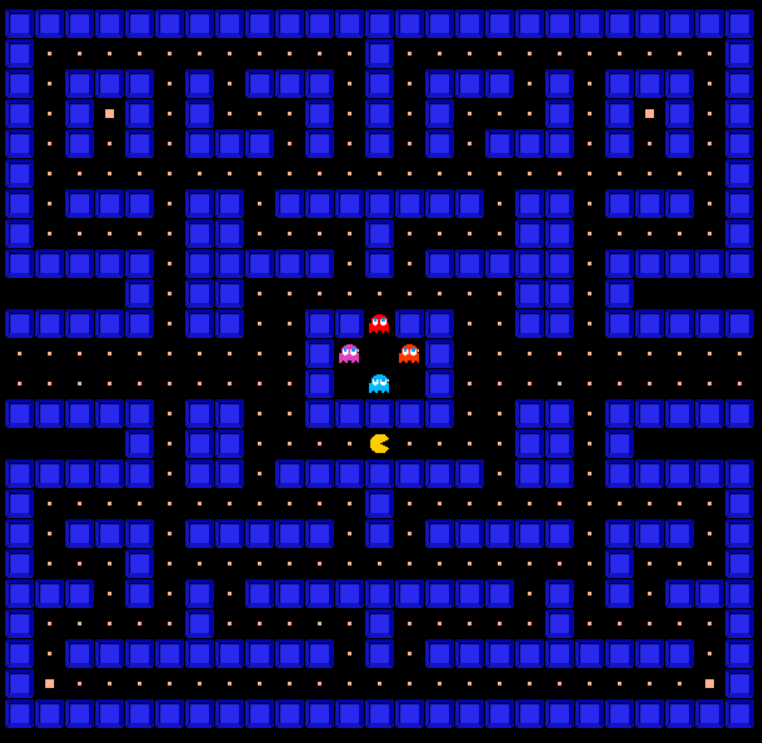
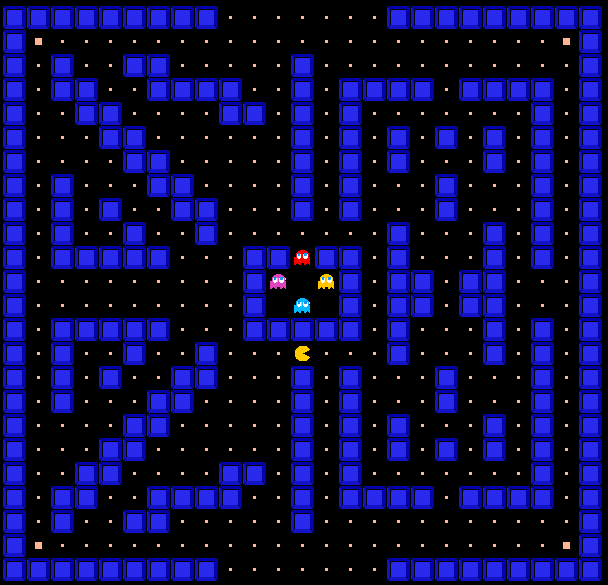
Add new maps, sort by dificulty

diff --git a/src/level.py b/src/level.py
@@ -8,6 +8,34 @@ class Level:
     def __init__(self):
         self.lvl = 0
         self.maps = [
+            # clean map:
+            [
+                [1,1,1,1,1,1,1,1,1,1,1,1,1,1,1,1,1,1,1,1,1,1,1,1,1,0],
+                [1,0,0,0,0,0,0,0,0,0,0,0,0,0,0,0,0,0,0,0,0,0,0,0,1,0],
+                [1,0,0,0,0,0,0,0,0,0,0,0,0,0,0,0,0,0,0,0,0,0,0,0,1,0],
+                [1,0,0,0,0,0,0,0,0,0,0,0,0,0,0,0,0,0,0,0,0,0,0,0,1,0],
+                [1,0,0,0,0,0,0,0,0,0,0,0,0,0,0,0,0,0,0,0,0,0,0,0,1,0],
+                [1,0,0,0,0,0,0,0,0,0,0,0,0,0,0,0,0,0,0,0,0,0,0,0,1,0],
+                [1,0,0,0,0,0,0,0,0,0,0,0,0,0,0,0,0,0,0,0,0,0,0,0,1,0],
+                [1,0,0,0,0,0,0,0,0,0,0,0,0,0,0,0,0,0,0,0,0,0,0,0,1,0],
+                [1,0,0,0,0,0,0,0,0,0,0,0,0,0,0,0,0,0,0,0,0,0,0,0,1,0],
+                [1,0,0,0,0,0,0,0,0,0,0,0,0,0,0,0,0,0,0,0,0,0,0,0,1,0],
+                [1,0,0,0,0,0,0,0,0,0,1,1,2,1,1,0,0,0,0,0,0,0,0,0,1,0],
+                [1,0,0,0,0,0,0,0,0,0,1,2,2,2,1,0,0,0,0,0,0,0,0,0,1,0],
+                [1,0,0,0,0,0,0,0,0,0,1,2,2,2,1,0,0,0,0,0,0,0,0,0,1,0],
+                [1,0,0,0,0,0,0,0,0,0,1,1,1,1,1,0,0,0,0,0,0,0,0,0,1,0],
+                [1,0,0,0,0,0,0,0,0,0,0,0,0,0,0,0,0,0,0,0,0,0,0,0,1,0],
+                [1,0,0,0,0,0,0,0,0,0,0,0,0,0,0,0,0,0,0,0,0,0,0,0,1,0],
+                [1,0,0,0,0,0,0,0,0,0,0,0,0,0,0,0,0,0,0,0,0,0,0,0,1,0],
+                [1,0,0,0,0,0,0,0,0,0,0,0,0,0,0,0,0,0,0,0,0,0,0,0,1,0],
+                [1,0,0,0,0,0,0,0,0,0,0,0,0,0,0,0,0,0,0,0,0,0,0,0,1,0],
+                [1,0,0,0,0,0,0,0,0,0,0,0,0,0,0,0,0,0,0,0,0,0,0,0,1,0],
+                [1,0,0,0,0,0,0,0,0,0,0,0,0,0,0,0,0,0,0,0,0,0,0,0,1,0],
+                [1,0,0,0,0,0,0,0,0,0,0,0,0,0,0,0,0,0,0,0,0,0,0,0,1,0],
+                [1,0,0,0,0,0,0,0,0,0,0,0,0,0,0,0,0,0,0,0,0,0,0,0,1,0],
+                [1,1,1,1,1,1,1,1,1,1,1,1,1,1,1,1,1,1,1,1,1,1,1,1,1,0],
+                [0,0,0,0,0,0,0,0,0,0,0,0,0,0,0,0,0,0,0,0,0,0,0,0,0,0],
+            ],
             [
                 [1,1,1,1,1,1,1,1,1,1,1,1,1,1,1,1,1,1,1,1,1,1,1,1,1,0],
                 [1,0,0,0,0,0,0,0,0,0,0,0,0,0,0,0,0,0,0,0,0,0,0,0,1,0],
@@ -34,89 +62,114 @@ class Level:
                 [1,0,0,0,0,0,0,0,0,0,0,0,0,0,0,0,0,0,0,0,0,0,0,0,1,0],
                 [1,1,1,1,1,1,1,1,1,1,1,1,1,1,1,1,1,1,1,1,1,1,1,1,1,0],
                 [0,0,0,0,0,0,0,0,0,0,0,0,0,0,0,0,0,0,0,0,0,0,0,0,0,0]
-
-
             ],
             [
-                [1,0,1,1,1,1,1,1,1,1,1,2,2,2,1,1,1,1,1,1,1,1,1,0,1,0],
-                [1,0,0,0,0,0,1,3,0,0,1,2,2,2,1,0,0,3,1,0,0,0,0,0,1,0],
-                [1,0,1,1,1,0,0,0,1,0,1,2,2,2,1,0,1,0,0,0,1,1,1,0,1,0],
-                [1,0,0,0,1,0,1,1,1,0,1,2,2,2,1,0,1,1,1,0,1,0,0,0,1,0],
-                [1,0,1,0,1,0,0,0,1,0,1,1,2,1,1,0,1,0,0,0,1,0,1,0,1,0],
-                [1,0,1,0,1,1,1,0,1,0,0,1,1,1,0,0,1,0,1,1,1,0,1,0,1,0],
-                [1,1,1,0,0,0,1,0,1,0,1,1,1,1,1,0,1,0,1,0,0,0,1,1,1,0],
-                [1,0,0,0,1,0,1,0,0,0,1,0,1,0,1,0,0,0,1,0,1,0,0,0,1,0],
-                [1,0,1,1,1,0,1,1,1,0,0,0,1,0,0,0,1,1,1,0,1,1,1,0,1,0],
-                [1,0,1,0,0,0,0,0,1,0,1,0,0,0,1,0,1,0,0,0,0,0,1,0,1,0],
-                [1,0,1,0,1,1,1,0,1,0,1,1,2,1,1,0,1,0,1,1,1,0,1,0,1,0],
-                [1,0,1,0,1,0,1,0,1,0,1,2,2,2,1,0,1,0,1,0,1,0,1,0,1,0],
-                [1,0,0,0,1,0,1,0,0,0,1,2,2,2,1,0,0,0,1,0,1,0,0,0,1,0],
-                [1,1,0,1,1,0,1,0,1,0,1,1,1,1,1,0,1,0,1,0,1,1,0,1,1,0],
-                [1,0,0,0,0,0,1,0,1,0,0,0,0,0,0,0,1,0,1,0,0,0,0,0,1,0],
-                [1,0,1,1,1,0,1,1,1,0,1,1,0,1,1,0,1,1,1,0,1,1,1,0,1,0],
-                [1,0,1,3,1,0,0,0,0,0,0,1,0,1,0,0,0,0,0,0,1,3,1,0,1,0],
-                [1,0,1,0,1,0,1,1,1,1,0,1,0,1,0,1,1,1,1,0,1,0,1,0,1,0],
-                [1,0,1,0,1,0,1,0,0,0,0,1,0,1,0,0,0,0,1,0,1,0,1,0,1,0],
-                [1,0,0,0,0,0,1,1,0,1,1,1,0,1,1,1,0,1,1,0,0,0,0,0,1,0],
-                [1,0,1,1,1,0,0,1,0,0,0,0,0,0,0,0,0,1,0,0,1,1,1,0,1,0],
-                [1,0,1,0,1,1,1,1,0,1,1,1,1,1,1,1,0,1,1,1,1,0,1,0,1,0],
+                [1,1,1,1,1,1,1,1,1,0,0,0,0,0,0,0,1,1,1,1,1,1,1,1,1,0],
+                [1,3,0,0,0,0,0,0,0,0,0,0,0,0,0,0,0,0,0,0,0,0,0,3,1,0],
+                [1,0,1,0,0,1,1,0,0,0,0,0,1,0,0,0,0,0,0,0,0,0,0,0,1,0],
+                [1,0,1,1,0,0,1,1,1,1,0,0,1,0,1,1,1,1,0,1,1,1,1,0,1,0],
+                [1,0,0,1,1,0,0,0,0,1,1,0,1,0,1,0,0,0,0,0,0,0,1,0,1,0],
+                [1,0,0,0,1,1,0,0,0,0,0,0,1,0,1,0,1,0,1,0,1,0,1,0,1,0],
+                [1,0,0,0,0,1,1,0,0,0,0,0,1,0,1,0,1,0,0,0,1,0,1,0,1,0],
+                [1,0,1,0,0,0,1,1,0,0,0,0,1,0,1,0,0,0,1,0,0,0,1,0,1,0],
+                [1,0,1,0,1,0,0,1,1,0,0,0,1,0,1,0,0,0,1,0,0,0,1,0,1,0],
+                [1,0,1,0,0,1,0,0,1,0,0,0,0,0,0,0,1,0,0,0,1,0,1,0,1,0],
+                [1,0,1,1,1,1,1,0,0,0,1,1,2,1,1,0,1,0,0,0,1,0,1,0,1,0],
+                [1,0,0,0,0,0,0,0,0,0,1,2,2,2,1,0,1,1,0,1,1,0,0,0,1,0],
+                [1,0,0,0,0,0,0,0,0,0,1,2,2,2,1,0,1,1,0,1,1,0,0,0,1,0],
+                [1,0,1,1,1,1,1,0,0,0,1,1,1,1,1,0,1,0,0,0,1,0,1,0,1,0],
+                [1,0,1,0,0,1,0,0,1,0,0,0,0,0,0,0,1,0,0,0,1,0,1,0,1,0],
+                [1,0,1,0,1,0,0,1,1,0,0,0,1,0,1,0,0,0,1,0,0,0,1,0,1,0],
+                [1,0,1,0,0,0,1,1,0,0,0,0,1,0,1,0,0,0,1,0,0,0,1,0,1,0],
+                [1,0,0,0,0,1,1,0,0,0,0,0,1,0,1,0,1,0,0,0,1,0,1,0,1,0],
+                [1,0,0,0,1,1,0,0,0,0,0,0,1,0,1,0,1,0,1,0,1,0,1,0,1,0],
+                [1,0,0,1,1,0,0,0,0,1,1,0,1,0,1,0,0,0,0,0,0,0,1,0,1,0],
+                [1,0,1,1,0,0,1,1,1,1,0,0,1,0,1,1,1,1,0,1,1,1,1,0,1,0],
+                [1,0,1,0,0,1,1,0,0,0,0,0,1,0,0,0,0,0,0,0,0,0,0,0,1,0],
+                [1,3,0,0,0,0,0,0,0,0,0,0,0,0,0,0,0,0,0,0,0,0,0,3,1,0],
+                [1,1,1,1,1,1,1,1,1,0,0,0,0,0,0,0,1,1,1,1,1,1,1,1,1,0],
+                [0,0,0,0,0,0,0,0,0,0,0,0,0,0,0,0,0,0,0,0,0,0,0,0,0,0]
+            ],
+            [
+                [1,1,1,1,1,1,1,1,1,1,1,1,1,1,1,1,1,1,1,1,1,1,1,1,1,0],
+                [1,0,0,0,0,0,0,0,0,0,0,0,0,0,0,0,0,0,0,0,0,0,0,0,1,0],
+                [1,0,1,1,1,1,1,1,0,1,1,1,0,1,1,1,0,1,1,1,1,1,1,0,1,0],
                 [1,0,1,0,0,0,0,0,0,0,0,0,0,0,0,0,0,0,0,0,0,0,1,0,1,0],
-                [1,0,1,1,1,1,1,1,1,1,1,1,1,1,1,1,1,1,1,1,1,1,1,0,1,0],
+                [1,0,0,0,1,1,1,1,1,1,0,1,1,1,0,1,1,1,1,1,1,0,0,0,1,0],
+                [1,0,1,0,1,0,0,0,0,0,0,0,0,0,0,0,0,0,0,0,1,0,1,0,1,0],
+                [1,0,1,0,1,0,1,1,1,1,1,1,0,1,1,1,1,1,1,0,1,0,1,0,1,0],
+                [1,0,1,0,0,0,1,0,0,0,0,0,0,0,0,0,0,0,1,0,0,0,1,0,1,0],
+                [1,0,1,0,1,0,1,0,1,1,1,1,1,1,1,1,1,0,1,0,1,0,1,0,1,0],
+                [1,0,1,0,1,0,1,0,1,0,0,0,0,0,0,0,1,0,1,0,1,0,1,0,1,0],
+                [1,0,1,0,1,0,1,0,0,0,1,1,2,1,1,0,0,0,1,0,1,0,1,0,1,0],
+                [1,0,1,0,1,0,0,0,1,0,1,2,2,2,1,0,1,0,0,0,1,0,1,0,1,0],
+                [1,0,1,0,1,0,0,0,1,0,1,2,2,2,1,0,1,0,0,0,1,0,1,0,1,0],
+                [1,0,1,0,1,0,1,0,0,0,1,1,1,1,1,0,0,0,1,0,1,0,1,0,1,0],
+                [1,0,1,0,1,0,1,0,1,0,0,0,0,0,0,0,1,0,1,0,1,0,1,0,1,0],
+                [1,0,1,0,1,0,1,0,1,1,1,1,0,1,1,1,1,0,1,0,1,0,1,0,1,0],
+                [1,0,1,0,0,0,1,0,0,0,0,0,0,0,0,0,0,0,1,0,0,0,1,0,1,0],
+                [1,0,1,0,1,0,1,1,1,1,1,1,1,1,1,1,1,1,1,0,1,0,1,0,1,0],
+                [1,0,1,0,1,0,0,0,0,0,0,0,0,0,0,0,0,0,0,0,1,0,1,0,1,0],
+                [1,0,0,0,1,0,1,1,1,1,1,1,0,1,1,1,1,1,1,0,1,0,0,0,1,0],
+                [1,0,1,0,0,0,0,0,0,0,0,0,0,0,0,0,0,0,0,0,0,0,1,0,1,0],
+                [1,0,1,1,1,1,0,1,1,1,1,1,1,1,1,1,1,1,0,1,1,1,1,0,1,0],
+                [1,0,0,0,0,0,0,0,0,0,0,0,0,0,0,0,0,0,0,0,0,0,0,0,1,0],
+                [1,1,1,1,1,1,1,1,1,1,1,1,1,1,1,1,1,1,1,1,1,1,1,1,1,0],
                 [0,0,0,0,0,0,0,0,0,0,0,0,0,0,0,0,0,0,0,0,0,0,0,0,0,0],
             ],
-
-            # clean map:
-            # [1,1,1,1,1,1,1,1,1,1,1,1,1,1,1,1,1,1,1,1,1,1,1,1,1,0],
-            # [1,0,0,0,0,0,0,0,0,0,0,0,0,0,0,0,0,0,0,0,0,0,0,0,1,0],
-            # [1,0,0,0,0,0,0,0,0,0,0,0,0,0,0,0,0,0,0,0,0,0,0,0,1,0],
-            # [1,0,0,0,0,0,0,0,0,0,0,0,0,0,0,0,0,0,0,0,0,0,0,0,1,0],
-            # [1,0,0,0,0,0,0,0,0,0,0,0,0,0,0,0,0,0,0,0,0,0,0,0,1,0],
-            # [1,0,0,0,0,0,0,0,0,0,0,0,0,0,0,0,0,0,0,0,0,0,0,0,1,0],
-            # [1,0,0,0,0,0,0,0,0,0,0,0,0,0,0,0,0,0,0,0,0,0,0,0,1,0],
-            # [1,0,0,0,0,0,0,0,0,0,0,0,0,0,0,0,0,0,0,0,0,0,0,0,1,0],
-            # [1,0,0,0,0,0,0,0,0,0,0,0,0,0,0,0,0,0,0,0,0,0,0,0,1,0],
-            # [1,0,0,0,0,0,0,0,0,0,0,0,0,0,0,0,0,0,0,0,0,0,0,0,1,0],
-            # [1,0,0,0,0,0,0,0,0,0,1,1,2,1,1,0,0,0,0,0,0,0,0,0,1,0],
-            # [1,0,0,0,0,0,0,0,0,0,1,2,2,2,1,0,0,0,0,0,0,0,0,0,1,0],
-            # [1,0,0,0,0,0,0,0,0,0,1,2,2,2,1,0,0,0,0,0,0,0,0,0,1,0],
-            # [1,0,0,0,0,0,0,0,0,0,1,1,1,1,1,0,0,0,0,0,0,0,0,0,1,0],
-            # [1,0,0,0,0,0,0,0,0,0,0,0,0,0,0,0,0,0,0,0,0,0,0,0,1,0],
-            # [1,0,0,0,0,0,0,0,0,0,0,0,0,0,0,0,0,0,0,0,0,0,0,0,1,0],
-            # [1,0,0,0,0,0,0,0,0,0,0,0,0,0,0,0,0,0,0,0,0,0,0,0,1,0],
-            # [1,0,0,0,0,0,0,0,0,0,0,0,0,0,0,0,0,0,0,0,0,0,0,0,1,0],
-            # [1,0,0,0,0,0,0,0,0,0,0,0,0,0,0,0,0,0,0,0,0,0,0,0,1,0],
-            # [1,0,0,0,0,0,0,0,0,0,0,0,0,0,0,0,0,0,0,0,0,0,0,0,1,0],
-            # [1,0,0,0,0,0,0,0,0,0,0,0,0,0,0,0,0,0,0,0,0,0,0,0,1,0],
-            # [1,0,0,0,0,0,0,0,0,0,0,0,0,0,0,0,0,0,0,0,0,0,0,0,1,0],
-            # [1,0,0,0,0,0,0,0,0,0,0,0,0,0,0,0,0,0,0,0,0,0,0,0,1,0],
-            # [1,1,1,1,1,1,1,1,1,1,1,1,1,1,1,1,1,1,1,1,1,1,1,1,1,0],
-            # [0,0,0,0,0,0,0,0,0,0,0,0,0,0,0,0,0,0,0,0,0,0,0,0,0,0],
             [
-                [1,1,1,1,1,1,1,1,1,1,1,1,1,1,1,1,1,1,1,1,1,1,1,1,1,0],
-                [1,0,0,0,0,0,0,0,0,0,0,0,1,0,0,0,0,0,0,0,0,0,0,0,1,0],
-                [1,0,1,1,1,0,1,0,1,1,1,0,1,0,1,1,1,0,1,0,1,1,1,0,1,0],
-                [1,0,1,3,1,0,1,0,0,0,1,0,1,0,1,0,0,0,1,0,1,3,1,0,1,0],
-                [1,0,1,0,1,0,1,1,1,0,1,0,1,0,1,0,1,1,1,0,1,0,1,0,1,0],
+                [1,1,1,1,1,1,1,1,1,1,1,1,0,1,1,1,1,1,1,1,1,1,1,1,1,0],
+                [1,0,0,0,0,0,0,0,0,0,0,1,0,1,0,0,0,0,0,0,0,0,0,0,1,0],
+                [1,0,1,0,1,0,1,0,1,1,0,1,0,1,0,1,1,0,1,0,1,0,1,0,1,0],
+                [1,0,0,0,1,0,1,0,0,0,0,1,0,1,0,0,0,0,1,0,1,0,0,0,1,0],
+                [1,1,1,1,1,0,1,1,1,1,1,1,0,1,1,1,1,1,1,0,1,1,1,1,1,0],
+                [0,0,0,0,0,0,0,0,0,0,0,0,0,0,0,0,0,0,0,0,0,0,0,0,0,0],
+                [1,1,1,1,1,0,1,1,1,1,1,1,0,1,1,1,1,1,1,0,1,1,1,1,1,0],
+                [1,0,0,0,1,0,1,0,0,0,0,1,0,1,0,0,0,0,1,0,1,0,0,0,1,0],
+                [1,0,1,0,1,0,1,0,1,1,0,1,0,1,0,1,1,0,1,0,1,0,1,0,1,0],
+                [1,0,0,0,1,0,1,0,0,0,0,0,0,0,0,0,0,0,1,0,1,0,0,0,1,0],
+                [1,0,1,0,1,0,1,0,1,0,1,1,2,1,1,0,1,0,1,0,1,0,1,0,1,0],
+                [1,0,1,0,0,0,0,0,1,0,1,2,2,2,1,0,1,0,0,0,0,0,1,0,1,0],
+                [1,0,1,0,0,0,0,0,1,0,1,2,2,2,1,0,1,0,0,0,0,0,1,0,1,0],
+                [1,0,1,0,1,0,1,0,1,0,1,1,1,1,1,0,1,0,1,0,1,0,1,0,1,0],
+                [1,0,0,0,1,0,1,0,0,0,0,0,0,0,0,0,0,0,1,0,1,0,0,0,1,0],
+                [1,0,1,0,1,0,1,0,1,1,0,1,0,1,0,1,1,0,1,0,1,0,1,0,1,0],
+                [1,0,0,0,1,0,1,0,0,0,0,1,0,1,0,0,0,0,1,0,1,0,0,0,1,0],
+                [1,1,1,1,1,0,1,1,1,1,1,1,0,1,1,1,1,1,1,0,1,1,1,1,1,0],
+                [0,0,0,0,0,0,0,0,0,0,0,0,0,0,0,0,0,0,0,0,0,0,0,0,0,0],
+                [1,1,1,1,1,0,1,1,1,1,1,1,0,1,1,1,1,1,1,0,1,1,1,1,1,0],
+                [1,0,0,0,1,0,1,0,0,0,0,1,0,1,0,0,0,0,1,0,1,0,0,0,1,0],
+                [1,0,1,0,1,0,1,0,1,1,0,1,0,1,0,1,1,0,1,0,1,0,1,0,1,0],
+                [1,0,0,0,0,0,0,0,0,0,0,1,0,1,0,0,0,0,0,0,0,0,0,0,1,0],
+                [1,1,1,1,1,1,1,1,1,1,1,1,0,1,1,1,1,1,1,1,1,1,1,1,1,0],
+                [0,0,0,0,0,0,0,0,0,0,0,0,0,0,0,0,0,0,0,0,0,0,0,0,0,0],
+            ],
+            [
+                [1,1,1,1,1,1,1,1,1,1,1,1,0,1,1,1,1,1,1,1,1,1,1,1,1,0],
                 [1,0,0,0,0,0,0,0,0,0,0,0,0,0,0,0,0,0,0,0,0,0,0,0,1,0],
-                [1,0,1,1,1,0,1,1,0,1,1,1,1,1,1,1,0,1,1,0,1,1,1,0,1,0],
-                [1,0,0,0,0,0,1,1,0,0,0,0,1,0,0,0,0,1,1,0,0,0,0,0,1,0],
-                [1,1,1,1,1,0,1,1,1,1,1,0,1,0,1,1,1,1,1,0,1,1,1,1,1,0],
-                [2,2,2,2,1,0,1,1,0,0,0,0,0,0,0,0,0,1,1,0,1,2,2,2,2,0],
-                [1,1,1,1,1,0,1,1,0,0,1,1,2,1,1,0,0,1,1,0,1,1,1,1,1,0],
-                [0,0,0,0,0,0,0,0,0,0,1,2,2,2,1,0,0,0,0,0,0,0,0,0,0,0],
-                [0,0,0,0,0,0,0,0,0,0,1,2,2,2,1,0,0,0,0,0,0,0,0,0,0,0],
-                [1,1,1,1,1,0,1,1,0,0,1,1,1,1,1,0,0,1,1,0,1,1,1,1,1,0],
-                [2,2,2,2,1,0,1,1,0,0,0,0,0,0,0,0,0,1,1,0,1,2,2,2,2,0],
-                [1,1,1,1,1,0,1,1,0,1,1,1,1,1,1,1,0,1,1,0,1,1,1,1,1,0],
-                [1,0,0,0,0,0,0,0,0,0,0,0,1,0,0,0,0,0,0,0,0,0,0,0,1,0],
-                [1,0,1,1,1,0,1,1,1,1,1,0,1,0,1,1,1,1,1,0,1,1,1,0,1,0],
-                [1,0,0,0,1,0,0,0,0,0,0,0,0,0,0,0,0,0,0,0,1,0,0,0,1,0],
-                [1,1,1,0,1,0,1,0,1,1,1,1,1,1,1,1,1,0,1,0,1,0,1,1,1,0],
-                [1,0,0,0,0,0,1,0,0,0,0,0,1,0,0,0,0,0,1,0,0,0,0,0,1,0],
-                [1,0,1,1,1,1,1,1,1,1,1,0,1,0,1,1,1,1,1,1,1,1,1,0,1,0],
-                [1,3,0,0,0,0,0,0,0,0,0,0,0,0,0,0,0,0,0,0,0,0,0,3,1,0],
-                [1,1,1,1,1,1,1,1,1,1,1,1,1,1,1,1,1,1,1,1,1,1,1,1,1,0],
-                [0,0,0,0,0,0,0,0,0,0,0,0,0,0,0,0,0,0,0,0,0,0,0,0,0,0]
+                [1,0,1,1,1,1,1,1,1,1,1,1,0,1,1,1,1,1,1,1,1,1,1,0,1,0],
+                [1,0,1,0,0,0,0,0,0,0,0,0,0,0,0,0,0,0,0,0,0,0,1,0,1,0],
+                [1,0,1,0,1,1,1,1,1,1,1,1,0,1,1,1,1,1,1,1,1,0,1,0,1,0],
+                [1,0,1,0,1,0,0,0,0,0,0,0,0,0,0,0,0,0,0,0,0,0,1,0,1,0],
+                [1,0,1,0,1,1,1,1,1,1,1,1,0,1,1,1,1,1,1,1,1,1,1,0,1,0],
+                [1,0,1,0,0,0,0,0,0,0,0,0,0,0,0,0,0,0,0,0,0,0,0,0,1,0],
+                [1,0,1,1,1,1,1,1,1,1,1,1,0,1,1,1,1,1,1,1,1,1,1,1,1,0],
+                [1,0,1,0,0,0,0,0,1,0,0,0,0,0,0,0,1,0,0,0,0,0,1,0,1,0],
+                [1,0,1,0,1,1,1,0,1,0,1,1,2,1,1,0,1,0,1,1,1,0,1,0,1,0],
+                [1,0,1,0,1,0,1,0,1,0,1,2,2,2,1,0,1,0,1,0,1,0,1,0,1,0],
+                [1,0,1,0,1,0,1,0,1,0,1,2,2,2,1,0,1,0,1,0,1,0,1,0,1,0],
+                [1,0,1,0,1,0,1,0,1,0,1,1,1,1,1,0,1,0,1,0,1,0,1,0,1,0],
+                [1,0,1,0,1,0,1,0,1,0,0,0,0,0,0,0,1,0,1,0,1,0,1,0,1,0],
+                [0,0,0,0,0,0,0,0,0,0,0,1,0,1,0,0,0,0,0,0,0,0,0,0,0,0],
+                [1,0,1,0,1,0,1,0,1,0,1,1,0,1,1,0,1,0,0,0,0,0,1,0,1,0],
+                [1,0,1,0,1,0,1,0,1,0,1,0,0,0,1,0,1,0,1,0,1,0,1,0,1,0],
+                [1,0,1,0,1,0,1,0,1,0,1,0,1,0,1,0,1,0,1,0,1,0,1,0,1,0],
+                [1,0,1,0,1,0,1,0,1,0,1,0,1,0,1,0,1,0,1,0,1,0,1,0,1,0],
+                [1,0,1,0,0,0,1,0,1,0,1,0,0,0,1,0,1,0,1,0,0,0,1,0,1,0],
+                [1,0,1,1,1,1,1,0,1,0,1,1,0,1,1,0,1,0,1,1,1,1,1,0,1,0],
+                [1,0,0,0,0,0,0,0,1,0,0,0,0,0,0,0,1,0,0,0,0,0,0,0,1,0],
+                [1,1,1,1,1,1,1,1,1,1,1,1,0,1,1,1,1,1,1,1,1,1,1,1,1,0],
+                [0,0,0,0,0,0,0,0,0,0,0,0,0,0,0,0,0,0,0,0,0,0,0,0,0,0],
             ],
             [
                 [1,1,1,1,1,1,1,1,1,1,1,1,0,0,1,1,1,1,1,1,1,1,1,1,1,0],
@@ -145,63 +198,88 @@ class Level:
                 [1,1,1,1,1,1,1,1,1,1,1,1,0,0,1,1,1,1,1,1,1,1,1,1,1,0],
                 [0,0,0,0,0,0,0,0,0,0,0,0,0,0,0,0,0,0,0,0,0,0,0,0,0,0]
             ],
-
             [
                 [1,1,1,1,1,1,1,1,1,1,1,1,1,1,1,1,1,1,1,1,1,1,1,1,1,0],
-                [1,1,1,1,1,1,1,1,1,1,1,1,1,1,1,1,1,1,1,1,1,1,1,1,1,0],
-                [1,1,1,1,1,1,1,1,1,1,1,1,1,1,1,1,1,1,1,1,1,1,1,1,1,0],
-                [1,1,1,1,1,1,1,1,1,1,1,1,1,1,1,1,1,1,1,1,1,1,1,1,1,0],
-                [1,1,1,1,1,1,1,1,1,1,1,1,1,1,1,1,1,1,1,1,1,1,1,1,1,0],
-                [1,1,1,1,1,1,1,1,1,1,1,1,1,1,1,1,1,1,1,1,1,1,1,1,1,0],
-                [1,1,1,1,1,1,1,1,1,1,1,1,1,1,1,1,1,1,1,1,1,1,1,1,1,0],
-                [1,1,1,1,1,1,1,1,1,1,1,1,1,1,1,1,1,1,1,1,1,1,1,1,1,0],
-                [1,1,1,1,1,1,1,1,1,1,1,1,1,1,1,1,1,1,1,1,1,1,1,1,1,0],
-                [1,1,1,1,1,1,1,1,1,1,1,1,1,1,1,1,1,1,1,1,1,1,1,1,1,0],
-                [1,1,1,1,1,1,1,0,0,0,1,1,2,1,1,0,0,0,1,1,1,1,1,1,1,0],
-                [1,1,1,1,1,1,1,0,0,0,1,2,2,2,1,0,0,0,1,1,1,1,1,1,1,0],
-                [1,1,1,1,1,1,1,0,0,0,1,2,2,2,1,0,0,0,1,1,1,1,1,1,1,0],
-                [1,1,1,1,1,1,1,0,0,0,1,1,1,1,1,0,0,0,1,1,1,1,1,1,1,0],
-                [1,1,1,1,1,1,1,0,0,0,0,0,0,0,0,0,0,0,1,1,1,1,1,1,1,0],
-                [1,1,1,1,1,1,1,1,1,1,1,1,1,1,1,1,1,1,1,1,1,1,1,1,1,0],
-                [1,1,1,1,1,1,1,1,1,1,1,1,1,1,1,1,1,1,1,1,1,1,1,1,1,0],
-                [1,1,1,1,1,1,1,1,1,1,1,1,1,1,1,1,1,1,1,1,1,1,1,1,1,0],
-                [1,1,1,1,1,1,1,1,1,1,1,1,1,1,1,1,1,1,1,1,1,1,1,1,1,0],
-                [1,1,1,1,1,1,1,1,1,1,1,1,1,1,1,1,1,1,1,1,1,1,1,1,1,0],
-                [1,1,1,1,1,1,1,1,1,1,1,1,1,1,1,1,1,1,1,1,1,1,1,1,1,0],
-                [1,1,1,1,1,1,1,1,1,1,1,1,1,1,1,1,1,1,1,1,1,1,1,1,1,0],
-                [1,1,1,1,1,1,1,1,1,1,1,1,1,1,1,1,1,1,1,1,1,1,1,1,1,0],
-                [1,1,1,1,1,1,1,1,1,1,1,1,1,1,1,1,1,1,1,1,1,1,1,1,1,0],
-                [0,0,0,0,0,0,0,0,0,0,0,0,0,0,0,0,0,0,0,0,0,0,0,0,0,0],
-            ],
-
-            [
-                [1,1,1,1,1,1,1,1,1,0,0,0,0,0,0,0,1,1,1,1,1,1,1,1,1,0],
+                [1,0,0,0,0,0,0,0,0,0,0,0,1,0,0,0,0,0,0,0,0,0,0,0,1,0],
+                [1,0,1,1,1,0,1,0,1,1,1,0,1,0,1,1,1,0,1,0,1,1,1,0,1,0],
+                [1,0,1,3,1,0,1,0,0,0,1,0,1,0,1,0,0,0,1,0,1,3,1,0,1,0],
+                [1,0,1,0,1,0,1,1,1,0,1,0,1,0,1,0,1,1,1,0,1,0,1,0,1,0],
+                [1,0,0,0,0,0,0,0,0,0,0,0,0,0,0,0,0,0,0,0,0,0,0,0,1,0],
+                [1,0,1,1,1,0,1,1,0,1,1,1,1,1,1,1,0,1,1,0,1,1,1,0,1,0],
+                [1,0,0,0,0,0,1,1,0,0,0,0,1,0,0,0,0,1,1,0,0,0,0,0,1,0],
+                [1,1,1,1,1,0,1,1,1,1,1,0,1,0,1,1,1,1,1,0,1,1,1,1,1,0],
+                [2,2,2,2,1,0,1,1,0,0,0,0,0,0,0,0,0,1,1,0,1,2,2,2,2,0],
+                [1,1,1,1,1,0,1,1,0,0,1,1,2,1,1,0,0,1,1,0,1,1,1,1,1,0],
+                [0,0,0,0,0,0,0,0,0,0,1,2,2,2,1,0,0,0,0,0,0,0,0,0,0,0],
+                [0,0,0,0,0,0,0,0,0,0,1,2,2,2,1,0,0,0,0,0,0,0,0,0,0,0],
+                [1,1,1,1,1,0,1,1,0,0,1,1,1,1,1,0,0,1,1,0,1,1,1,1,1,0],
+                [2,2,2,2,1,0,1,1,0,0,0,0,0,0,0,0,0,1,1,0,1,2,2,2,2,0],
+                [1,1,1,1,1,0,1,1,0,1,1,1,1,1,1,1,0,1,1,0,1,1,1,1,1,0],
+                [1,0,0,0,0,0,0,0,0,0,0,0,1,0,0,0,0,0,0,0,0,0,0,0,1,0],
+                [1,0,1,1,1,0,1,1,1,1,1,0,1,0,1,1,1,1,1,0,1,1,1,0,1,0],
+                [1,0,0,0,1,0,0,0,0,0,0,0,0,0,0,0,0,0,0,0,1,0,0,0,1,0],
+                [1,1,1,0,1,0,1,0,1,1,1,1,1,1,1,1,1,0,1,0,1,0,1,1,1,0],
+                [1,0,0,0,0,0,1,0,0,0,0,0,1,0,0,0,0,0,1,0,0,0,0,0,1,0],
+                [1,0,1,1,1,1,1,1,1,1,1,0,1,0,1,1,1,1,1,1,1,1,1,0,1,0],
                 [1,3,0,0,0,0,0,0,0,0,0,0,0,0,0,0,0,0,0,0,0,0,0,3,1,0],
-                [1,0,1,0,0,1,1,0,0,0,0,0,1,0,0,0,0,0,0,0,0,0,0,0,1,0],
-                [1,0,1,1,0,0,1,1,1,1,0,0,1,0,1,1,1,1,0,1,1,1,1,0,1,0],
-                [1,0,0,1,1,0,0,0,0,1,1,0,1,0,1,0,0,0,0,0,0,0,1,0,1,0],
-                [1,0,0,0,1,1,0,0,0,0,0,0,1,0,1,0,1,0,1,0,1,0,1,0,1,0],
-                [1,0,0,0,0,1,1,0,0,0,0,0,1,0,1,0,1,0,0,0,1,0,1,0,1,0],
-                [1,0,1,0,0,0,1,1,0,0,0,0,1,0,1,0,0,0,1,0,0,0,1,0,1,0],
-                [1,0,1,0,1,0,0,1,1,0,0,0,1,0,1,0,0,0,1,0,0,0,1,0,1,0],
-                [1,0,1,0,0,1,0,0,1,0,0,0,0,0,0,0,1,0,0,0,1,0,1,0,1,0],
-                [1,0,1,1,1,1,1,0,0,0,1,1,2,1,1,0,1,0,0,0,1,0,1,0,1,0],
-                [1,0,0,0,0,0,0,0,0,0,1,2,2,2,1,0,1,1,0,1,1,0,0,0,1,0],
-                [1,0,0,0,0,0,0,0,0,0,1,2,2,2,1,0,1,1,0,1,1,0,0,0,1,0],
-                [1,0,1,1,1,1,1,0,0,0,1,1,1,1,1,0,1,0,0,0,1,0,1,0,1,0],
-                [1,0,1,0,0,1,0,0,1,0,0,0,0,0,0,0,1,0,0,0,1,0,1,0,1,0],
-                [1,0,1,0,1,0,0,1,1,0,0,0,1,0,1,0,0,0,1,0,0,0,1,0,1,0],
-                [1,0,1,0,0,0,1,1,0,0,0,0,1,0,1,0,0,0,1,0,0,0,1,0,1,0],
-                [1,0,0,0,0,1,1,0,0,0,0,0,1,0,1,0,1,0,0,0,1,0,1,0,1,0],
-                [1,0,0,0,1,1,0,0,0,0,0,0,1,0,1,0,1,0,1,0,1,0,1,0,1,0],
-                [1,0,0,1,1,0,0,0,0,1,1,0,1,0,1,0,0,0,0,0,0,0,1,0,1,0],
-                [1,0,1,1,0,0,1,1,1,1,0,0,1,0,1,1,1,1,0,1,1,1,1,0,1,0],
-                [1,0,1,0,0,1,1,0,0,0,0,0,1,0,0,0,0,0,0,0,0,0,0,0,1,0],
-                [1,3,0,0,0,0,0,0,0,0,0,0,0,0,0,0,0,0,0,0,0,0,0,3,1,0],
-                [1,1,1,1,1,1,1,1,1,0,0,0,0,0,0,0,1,1,1,1,1,1,1,1,1,0],
+                [1,1,1,1,1,1,1,1,1,1,1,1,1,1,1,1,1,1,1,1,1,1,1,1,1,0],
                 [0,0,0,0,0,0,0,0,0,0,0,0,0,0,0,0,0,0,0,0,0,0,0,0,0,0]
             ],
+            [
+                [1,0,1,1,1,1,1,1,1,1,1,2,2,2,1,1,1,1,1,1,1,1,1,0,1,0],
+                [1,0,0,0,0,0,1,3,0,0,1,2,2,2,1,0,0,3,1,0,0,0,0,0,1,0],
+                [1,0,1,1,1,0,0,0,1,0,1,2,2,2,1,0,1,0,0,0,1,1,1,0,1,0],
+                [1,0,0,0,1,0,1,1,1,0,1,2,2,2,1,0,1,1,1,0,1,0,0,0,1,0],
+                [1,0,1,0,1,0,0,0,1,0,1,1,2,1,1,0,1,0,0,0,1,0,1,0,1,0],
+                [1,0,1,0,1,1,1,0,1,0,0,1,1,1,0,0,1,0,1,1,1,0,1,0,1,0],
+                [1,1,1,0,0,0,1,0,1,0,1,1,1,1,1,0,1,0,1,0,0,0,1,1,1,0],
+                [1,0,0,0,1,0,1,0,0,0,1,0,1,0,1,0,0,0,1,0,1,0,0,0,1,0],
+                [1,0,1,1,1,0,1,1,1,0,0,0,1,0,0,0,1,1,1,0,1,1,1,0,1,0],
+                [1,0,1,0,0,0,0,0,1,0,1,0,0,0,1,0,1,0,0,0,0,0,1,0,1,0],
+                [1,0,1,0,1,1,1,0,1,0,1,1,2,1,1,0,1,0,1,1,1,0,1,0,1,0],
+                [1,0,1,0,1,0,1,0,1,0,1,2,2,2,1,0,1,0,1,0,1,0,1,0,1,0],
+                [1,0,0,0,1,0,1,0,0,0,1,2,2,2,1,0,0,0,1,0,1,0,0,0,1,0],
+                [1,1,0,1,1,0,1,0,1,0,1,1,1,1,1,0,1,0,1,0,1,1,0,1,1,0],
+                [1,0,0,0,0,0,1,0,1,0,0,0,0,0,0,0,1,0,1,0,0,0,0,0,1,0],
+                [1,0,1,1,1,0,1,1,1,0,1,1,0,1,1,0,1,1,1,0,1,1,1,0,1,0],
+                [1,0,1,3,1,0,0,0,0,0,0,1,0,1,0,0,0,0,0,0,1,3,1,0,1,0],
+                [1,0,1,0,1,0,1,1,1,1,0,1,0,1,0,1,1,1,1,0,1,0,1,0,1,0],
+                [1,0,1,0,1,0,1,0,0,0,0,1,0,1,0,0,0,0,1,0,1,0,1,0,1,0],
+                [1,0,0,0,0,0,1,1,0,1,1,1,0,1,1,1,0,1,1,0,0,0,0,0,1,0],
+                [1,0,1,1,1,0,0,1,0,0,0,0,0,0,0,0,0,1,0,0,1,1,1,0,1,0],
+                [1,0,1,0,1,1,1,1,0,1,1,1,1,1,1,1,0,1,1,1,1,0,1,0,1,0],
+                [1,0,1,0,0,0,0,0,0,0,0,0,0,0,0,0,0,0,0,0,0,0,1,0,1,0],
+                [1,0,1,1,1,1,1,1,1,1,1,1,1,1,1,1,1,1,1,1,1,1,1,0,1,0],
+                [0,0,0,0,0,0,0,0,0,0,0,0,0,0,0,0,0,0,0,0,0,0,0,0,0,0],
+            ],
             
+            # [
+            #     [1,1,1,1,1,1,1,1,1,1,1,1,1,1,1,1,1,1,1,1,1,1,1,1,1,0],
+            #     [1,1,1,1,1,1,1,1,1,1,1,1,1,1,1,1,1,1,1,1,1,1,1,1,1,0],
+            #     [1,1,1,1,1,1,1,1,1,1,1,1,1,1,1,1,1,1,1,1,1,1,1,1,1,0],
+            #     [1,1,1,1,1,1,1,1,1,1,1,1,1,1,1,1,1,1,1,1,1,1,1,1,1,0],
+            #     [1,1,1,1,1,1,1,1,1,1,1,1,1,1,1,1,1,1,1,1,1,1,1,1,1,0],
+            #     [1,1,1,1,1,1,1,1,1,1,1,1,1,1,1,1,1,1,1,1,1,1,1,1,1,0],
+            #     [1,1,1,1,1,1,1,1,1,1,1,1,1,1,1,1,1,1,1,1,1,1,1,1,1,0],
+            #     [1,1,1,1,1,1,1,1,1,1,1,1,1,1,1,1,1,1,1,1,1,1,1,1,1,0],
+            #     [1,1,1,1,1,1,1,1,1,1,1,1,1,1,1,1,1,1,1,1,1,1,1,1,1,0],
+            #     [1,1,1,1,1,1,1,1,1,1,1,1,1,1,1,1,1,1,1,1,1,1,1,1,1,0],
+            #     [1,1,1,1,1,1,1,0,0,0,1,1,2,1,1,0,0,0,1,1,1,1,1,1,1,0],
+            #     [1,1,1,1,1,1,1,0,0,0,1,2,2,2,1,0,0,0,1,1,1,1,1,1,1,0],
+            #     [1,1,1,1,1,1,1,0,0,0,1,2,2,2,1,0,0,0,1,1,1,1,1,1,1,0],
+            #     [1,1,1,1,1,1,1,0,0,0,1,1,1,1,1,0,0,0,1,1,1,1,1,1,1,0],
+            #     [1,1,1,1,1,1,1,0,0,0,0,0,0,0,0,0,0,0,1,1,1,1,1,1,1,0],
+            #     [1,1,1,1,1,1,1,1,1,1,1,1,1,1,1,1,1,1,1,1,1,1,1,1,1,0],
+            #     [1,1,1,1,1,1,1,1,1,1,1,1,1,1,1,1,1,1,1,1,1,1,1,1,1,0],
+            #     [1,1,1,1,1,1,1,1,1,1,1,1,1,1,1,1,1,1,1,1,1,1,1,1,1,0],
+            #     [1,1,1,1,1,1,1,1,1,1,1,1,1,1,1,1,1,1,1,1,1,1,1,1,1,0],
+            #     [1,1,1,1,1,1,1,1,1,1,1,1,1,1,1,1,1,1,1,1,1,1,1,1,1,0],
+            #     [1,1,1,1,1,1,1,1,1,1,1,1,1,1,1,1,1,1,1,1,1,1,1,1,1,0],
+            #     [1,1,1,1,1,1,1,1,1,1,1,1,1,1,1,1,1,1,1,1,1,1,1,1,1,0],
+            #     [1,1,1,1,1,1,1,1,1,1,1,1,1,1,1,1,1,1,1,1,1,1,1,1,1,0],
+            #     [1,1,1,1,1,1,1,1,1,1,1,1,1,1,1,1,1,1,1,1,1,1,1,1,1,0],
+            #     [0,0,0,0,0,0,0,0,0,0,0,0,0,0,0,0,0,0,0,0,0,0,0,0,0,0],
+            # ],
             ]
         self.start_maps = self.maps
     

diff --git a/src/maps.py b/src/maps.py
@@ -12,10 +12,10 @@ class Bigmap:
         self.map2 = pygame.transform.scale(pygame.image.load("../lib/maps/map2.png"), [ICON_SIZE, ICON_SIZE])
         self.map3 = pygame.transform.scale(pygame.image.load("../lib/maps/map3.png"), [ICON_SIZE, ICON_SIZE])
         self.map4 = pygame.transform.scale(pygame.image.load("../lib/maps/map4.png"), [ICON_SIZE, ICON_SIZE])
-        self.map5 = pygame.transform.scale(pygame.image.load("../lib/maps/map1.png"), [ICON_SIZE, ICON_SIZE])
-        self.map6 = pygame.transform.scale(pygame.image.load("../lib/maps/map2.png"), [ICON_SIZE, ICON_SIZE])
-        self.map7 = pygame.transform.scale(pygame.image.load("../lib/maps/map3.png"), [ICON_SIZE, ICON_SIZE])
-        self.map8 = pygame.transform.scale(pygame.image.load("../lib/maps/map4.png"), [ICON_SIZE, ICON_SIZE])
+        self.map5 = pygame.transform.scale(pygame.image.load("../lib/maps/map5.png"), [ICON_SIZE, ICON_SIZE])
+        self.map6 = pygame.transform.scale(pygame.image.load("../lib/maps/map6.png"), [ICON_SIZE, ICON_SIZE])
+        self.map7 = pygame.transform.scale(pygame.image.load("../lib/maps/map7.png"), [ICON_SIZE, ICON_SIZE])
+        self.map8 = pygame.transform.scale(pygame.image.load("../lib/maps/map8.png"), [ICON_SIZE, ICON_SIZE])
         self.maps = [self.map1, self.map2, self.map3, self.map4, self.map5, self.map6, self.map7, self.map8]
 
         self.title = pygame.image.load("../lib/capmantitle.png")
@@ -73,12 +73,3 @@ class Bigmap:
                         if((pos[0] >= (i+1) * d + ICON_SIZE * i - 10 and pos[0] <= (i+1) * d + ICON_SIZE * (i + 1) + 10) and (pos[1] >= e2 - 10 and pos[1] <= e2+10+ICON_SIZE)):
                             return i+5
 
-
-                    # if (pos[0]>=d and pos[0]<=d+225) and (pos[1]>=e and pos[1]<=e+220):
-                    #     return 1
-                    # if (pos[0]>=2*d+225 and pos[0]<=2*d+450) and (pos[1]>=e and pos[1]<=e+220):
-                    #     return 2
-                    # if (pos[0]>=3*d+450 and pos[0]<=3*d+675) and (pos[1]>=e and pos[1]<=e+220):
-                    #     return 3
-                    # if (pos[0]>=4*d+675 and pos[0]<=4*d+900) and (pos[1]>=e and pos[1]<=e+220):
-                    #     return 4
